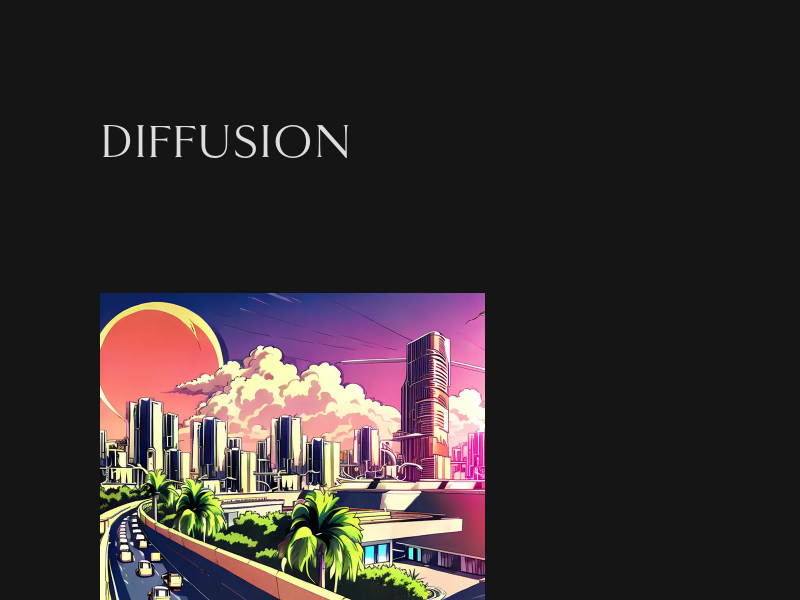
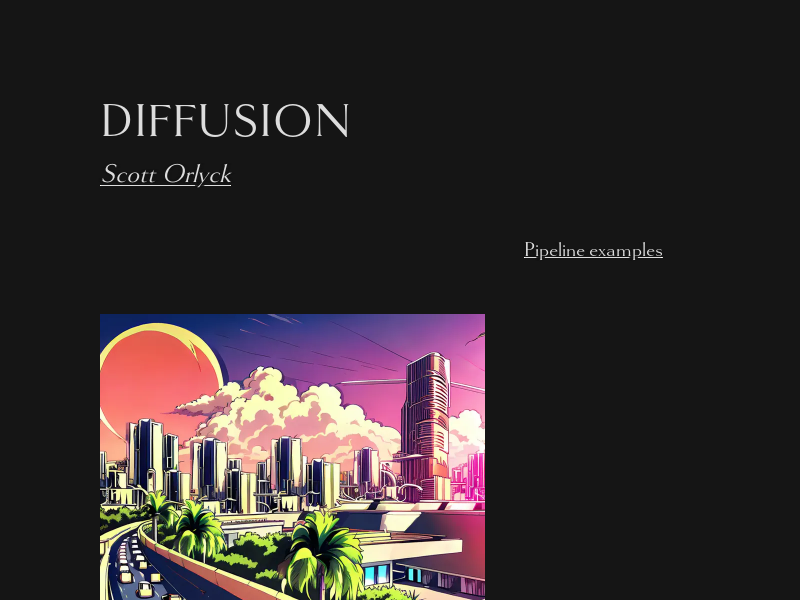
Render, commit, and deploy to gh pages.

Changed region(s): [[0.125, 0.48, 0.625, 1.0], [0.125, 0.15, 0.4375, 0.33], [0.6562, 0.39, 0.8125, 0.45]]

diff --git a/docs/index.html b/docs/index.html
@@ -7,4 +7,4 @@
     <body>
     
 
-<title>DIFFUSION</title><article><section><p><h1 class="title">DIFFUSION</h1></p></section><section><figure></figure></section><section><figure><img src="/diffusion/assets/0-6ccc6b9f.webp"></figure></section><section><figure><img src="/diffusion/assets/29-a8f83a2e.webp"></figure></section><section><figure><img src="/diffusion/assets/32-759956da.webp"></figure></section><section><figure><img src="/diffusion/assets/35-8e6d41e3.webp"></figure></section><section><figure><img src="/diffusion/assets/36-13d57138.webp"></figure></section><section><figure><img src="/diffusion/assets/10-0e02c0e7.webp"></figure></section><section><figure><img src="/diffusion/assets/11-00a4aa11.webp"></figure></section><section><figure><img src="/diffusion/assets/13-fb2bc6ad.webp"></figure></section><section><figure><img src="/diffusion/assets/15-882f4551.webp"></figure></section><section><figure><img src="/diffusion/assets/16-4a9dc728.webp"></figure></section><section><figure><img src="/diffusion/assets/37-67b903f8.webp"></figure></section><section><figure><img src="/diffusion/assets/17-736b47e2.webp"></figure></section><section><figure><img src="/diffusion/assets/38-b4ea32cd.webp"></figure></section><section><figure><img src="/diffusion/assets/21-c899f87f.webp"></figure></section><section><figure><img src="/diffusion/assets/39-cb9426ba.webp"></figure></section><section><figure><img src="/diffusion/assets/22-28e7022e.webp"></figure></section><section><figure><img src="/diffusion/assets/4-db4f84b8.webp"></figure></section><section><figure><img src="/diffusion/assets/34-9fb7c19b.webp"></figure></section><section><figure><img src="/diffusion/assets/40-13212123.webp"></figure></section><section><figure><img src="/diffusion/assets/41-29e1740c.webp"></figure></section><section><figure><img src="/diffusion/assets/42-82576297.webp"></figure></section><section><figure><img src="/diffusion/assets/6-426ab744.webp"></figure></section><section><figure><img src="/diffusion/assets/7-82d73316.webp"></figure></section><section><figure><img src="/diffusion/assets/astro0-9f9f2d6b.webp"></figure></section><section><figure><img src="/diffusion/assets/astro1-b5873530.webp"></figure></section><section><figure><img src="/diffusion/assets/astro2-dee5aa7f.webp"></figure></section><section><figure><img src="/diffusion/assets/dystopia-0a986b2a.webp"></figure></section><section><figure><img src="/diffusion/assets/googiedeco-c1a28bef.webp"></figure></section><section><figure><img src="/diffusion/assets/googiedeco0-ef1fecb6.webp"></figure></section><section><figure><img src="/diffusion/assets/googiedeco1-ffc93ebf.webp"></figure></section><section><figure><img src="/diffusion/assets/googiedeco2-399b80d7.webp"></figure></section><section><figure><img src="/diffusion/assets/googiedeco3-63875587.webp"></figure></section><section><figure><img src="/diffusion/assets/googiedeco4-cd595d5c.webp"></figure></section><section><figure><img src="/diffusion/assets/googiedeco5-7af57c5e.webp"></figure></section><section><figure><img src="/diffusion/assets/googiedeco6-ca4d799e.webp"></figure></section><section><figure><img src="/diffusion/assets/grid_03638e42-80dc-11ed-a868-401c83e9be7e_2-b8ad82e8.webp"></figure></section><section><figure><img src="/diffusion/assets/grid_12a64182-80db-11ed-a77e-401c83e9be7e_7-ed96f1df.webp"></figure></section><section><figure><img src="/diffusion/assets/grid_15aa32f8-80ea-11ed-b9d3-401c83e9be7e_8-8e2ce09c.webp"></figure></section><section><figure><img src="/diffusion/assets/grid_1cbeb459-80e8-11ed-b895-401c83e9be7e_1-3325e5c4.webp"></figure></section><section><figure><img src="/diffusion/assets/grid_1cbeb459-80e8-11ed-b895-401c83e9be7e_4-e17c8d89.webp"></figure></section><section><figure><img src="/diffusion/assets/grid_727d661d-7e72-11ed-83bf-401c83e9be7e-83a0290b.webp"></figure></section><section><figure><img src="/diffusion/assets/grid_727d661d-7e72-11ed-83bf-401c83e9be7e_5-6828dd07.webp"></figure></section><section><figure><img src="/diffusion/assets/grid_96f47998-80db-11ed-a0e7-401c83e9be7e_7-5bed9141.webp"></figure></section><section><figure><img src="/diffusion/assets/grid_996ccdb5-80ea-11ed-ab5b-401c83e9be7e_0-7e367907.webp"></figure></section><section><figure><img src="/diffusion/assets/grid_abe24cd9-7eff-11ed-85c9-401c83e9be7e-b3dccd91.webp"></figure></section><section><figure><img src="/diffusion/assets/hobbit-ac03bb73.webp"></figure></section><section><figure><img src="/diffusion/assets/jelly0-e254dc08.webp"></figure></section><section><figure><img src="/diffusion/assets/jelly1-40f52397.webp"></figure></section><section><figure><img src="/diffusion/assets/jelly2-8c18c17c.webp"></figure></section><section><figure><img src="/diffusion/assets/jelly4-5692a41c.webp"></figure></section></article></body></html>
+<title>DIFFUSION</title><article><section><h1 class="title">DIFFUSION</h1><p class="subtitle"><a href="https://scottorly.github.io">Scott Orlyck</a></p><p><label class="margin-toggle">⊕</label><input type="checkbox" class="margin-toggle"><span class="marginnote"><p><a target="_blank" rel="noreferrer noopener" href="https://gist.github.com/scottorly/ce416b17be4f32f75be2c59abcc624d4">Pipeline examples</a></p></span></p></section><section><figure></figure></section><section><figure><img src="/diffusion/assets/0-6ccc6b9f.webp"></figure></section><section><figure><img src="/diffusion/assets/21-c899f87f.webp"></figure></section><section><figure><img src="/diffusion/assets/22-28e7022e.webp"></figure></section><section><figure><img src="/diffusion/assets/29-a8f83a2e.webp"></figure></section><section><figure><img src="/diffusion/assets/32-759956da.webp"></figure></section><section><figure><img src="/diffusion/assets/34-9fb7c19b.webp"></figure></section><section><figure><img src="/diffusion/assets/35-8e6d41e3.webp"></figure></section><section><figure><img src="/diffusion/assets/10-0e02c0e7.webp"></figure></section><section><figure><img src="/diffusion/assets/11-00a4aa11.webp"></figure></section><section><figure><img src="/diffusion/assets/13-fb2bc6ad.webp"></figure></section><section><figure><img src="/diffusion/assets/15-882f4551.webp"></figure></section><section><figure><img src="/diffusion/assets/16-4a9dc728.webp"></figure></section><section><figure><img src="/diffusion/assets/17-736b47e2.webp"></figure></section><section><figure><img src="/diffusion/assets/36-13d57138.webp"></figure></section><section><figure><img src="/diffusion/assets/37-67b903f8.webp"></figure></section><section><figure><img src="/diffusion/assets/38-b4ea32cd.webp"></figure></section><section><figure><img src="/diffusion/assets/39-cb9426ba.webp"></figure></section><section><figure><img src="/diffusion/assets/4-db4f84b8.webp"></figure></section><section><figure><img src="/diffusion/assets/40-13212123.webp"></figure></section><section><figure><img src="/diffusion/assets/41-29e1740c.webp"></figure></section><section><figure><img src="/diffusion/assets/42-82576297.webp"></figure></section><section><figure><img src="/diffusion/assets/6-426ab744.webp"></figure></section><section><figure><img src="/diffusion/assets/7-82d73316.webp"></figure></section><section><figure><img src="/diffusion/assets/astro0-9f9f2d6b.webp"></figure></section><section><figure><img src="/diffusion/assets/astro1-b5873530.webp"></figure></section><section><figure><img src="/diffusion/assets/astro2-dee5aa7f.webp"></figure></section><section><figure><img src="/diffusion/assets/dystopia-0a986b2a.webp"></figure></section><section><figure><img src="/diffusion/assets/googiedeco-c1a28bef.webp"></figure></section><section><figure><img src="/diffusion/assets/googiedeco0-ef1fecb6.webp"></figure></section><section><figure><img src="/diffusion/assets/googiedeco1-ffc93ebf.webp"></figure></section><section><figure><img src="/diffusion/assets/googiedeco2-399b80d7.webp"></figure></section><section><figure><img src="/diffusion/assets/googiedeco3-63875587.webp"></figure></section><section><figure><img src="/diffusion/assets/googiedeco4-cd595d5c.webp"></figure></section><section><figure><img src="/diffusion/assets/googiedeco5-7af57c5e.webp"></figure></section><section><figure><img src="/diffusion/assets/googiedeco6-ca4d799e.webp"></figure></section><section><figure><img src="/diffusion/assets/grid_03638e42-80dc-11ed-a868-401c83e9be7e_2-b8ad82e8.webp"></figure></section><section><figure><img src="/diffusion/assets/grid_12a64182-80db-11ed-a77e-401c83e9be7e_7-ed96f1df.webp"></figure></section><section><figure><img src="/diffusion/assets/grid_15aa32f8-80ea-11ed-b9d3-401c83e9be7e_8-8e2ce09c.webp"></figure></section><section><figure><img src="/diffusion/assets/grid_1cbeb459-80e8-11ed-b895-401c83e9be7e_1-3325e5c4.webp"></figure></section><section><figure><img src="/diffusion/assets/grid_1cbeb459-80e8-11ed-b895-401c83e9be7e_4-e17c8d89.webp"></figure></section><section><figure><img src="/diffusion/assets/grid_727d661d-7e72-11ed-83bf-401c83e9be7e-83a0290b.webp"></figure></section><section><figure><img src="/diffusion/assets/grid_727d661d-7e72-11ed-83bf-401c83e9be7e_5-6828dd07.webp"></figure></section><section><figure><img src="/diffusion/assets/grid_96f47998-80db-11ed-a0e7-401c83e9be7e_7-5bed9141.webp"></figure></section><section><figure><img src="/diffusion/assets/grid_996ccdb5-80ea-11ed-ab5b-401c83e9be7e_0-7e367907.webp"></figure></section><section><figure><img src="/diffusion/assets/grid_abe24cd9-7eff-11ed-85c9-401c83e9be7e-b3dccd91.webp"></figure></section><section><figure><img src="/diffusion/assets/hobbit-ac03bb73.webp"></figure></section><section><figure><img src="/diffusion/assets/jelly0-e254dc08.webp"></figure></section><section><figure><img src="/diffusion/assets/jelly1-40f52397.webp"></figure></section><section><figure><img src="/diffusion/assets/jelly2-8c18c17c.webp"></figure></section><section><figure><img src="/diffusion/assets/jelly4-5692a41c.webp"></figure></section></article></body></html>
